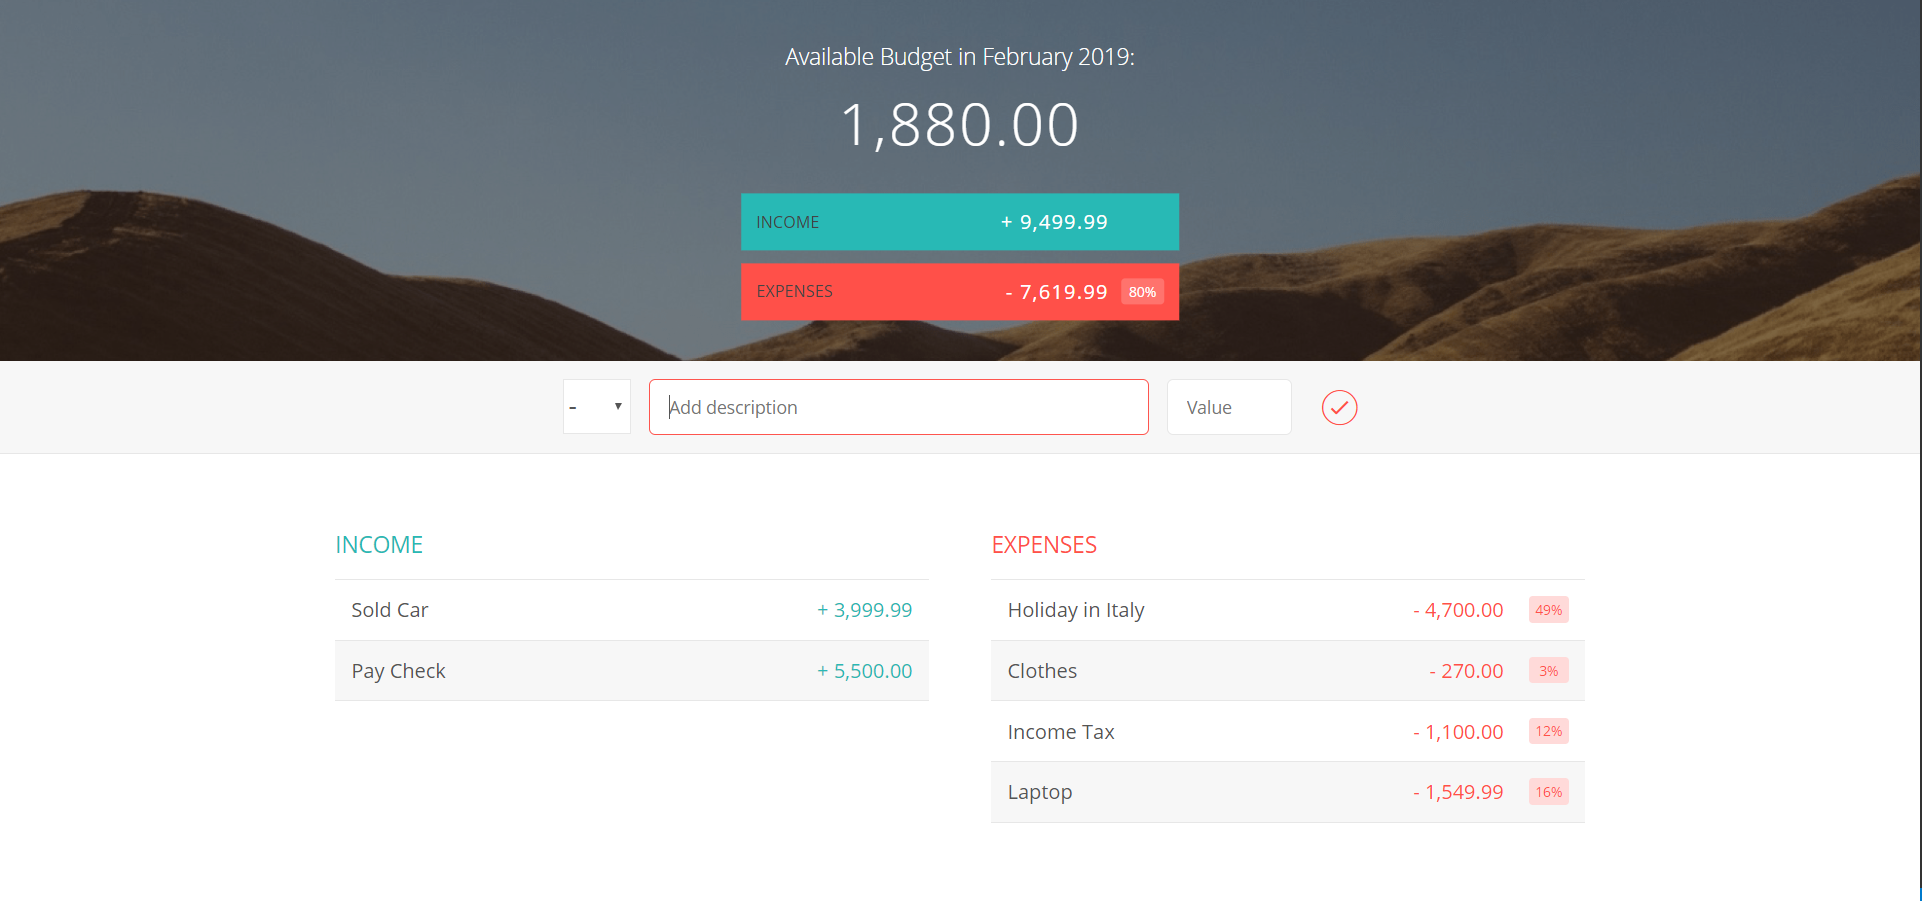
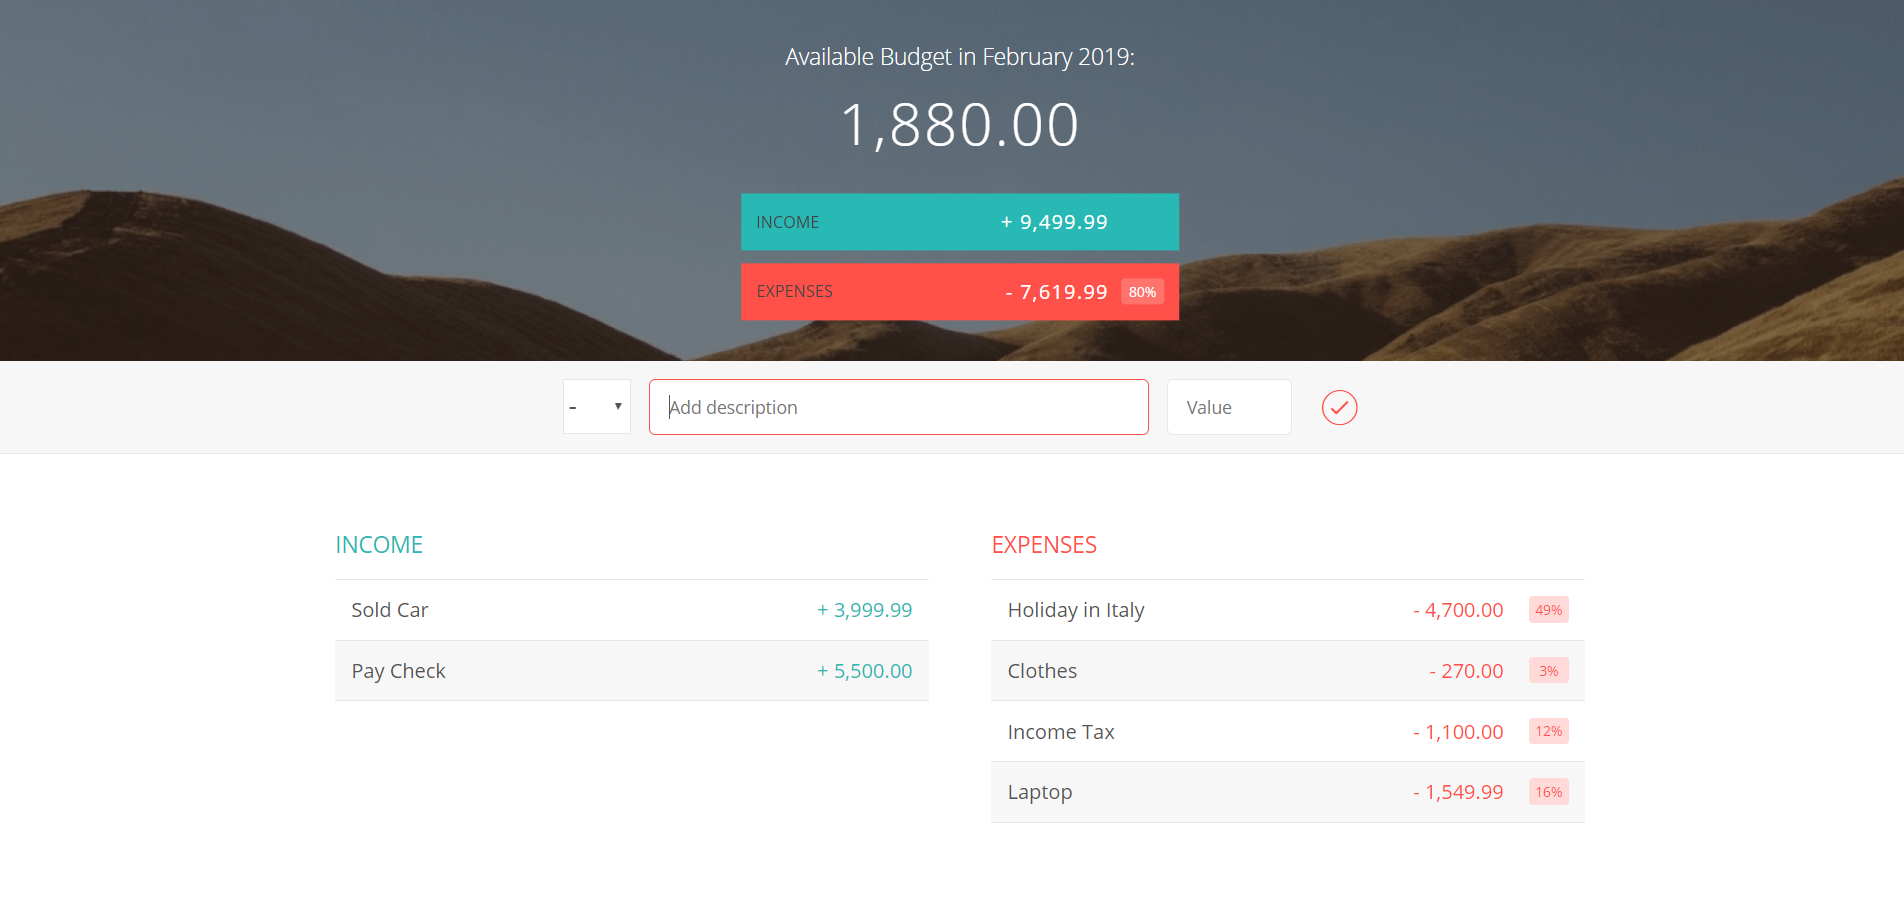
Update README

diff --git a/README.md b/README.md
@@ -2,7 +2,7 @@
 Budgetty is a budgetting app which takes a series of incomes and expenses and calculates the remaining disposable income. The list of incomes and expenses are shown with descriptions along with buttons to delete a respective item. Each expense also displays it's percentage of the total available income. The interface provides four points of interaction, the input type (income or expense), the input description, the input value and a button. The input panel changes from blue to red depending if an income or an expense is currently selected.
 
 <p align="center">
-<img src="https://github.com/IanGlass/Budgetty/blob/master/Budgetty.png" width="700">
+<img src="https://github.com/IanGlass/Budgetty/blob/master/Budgetty.png" width="900">
 </p>
 
 
